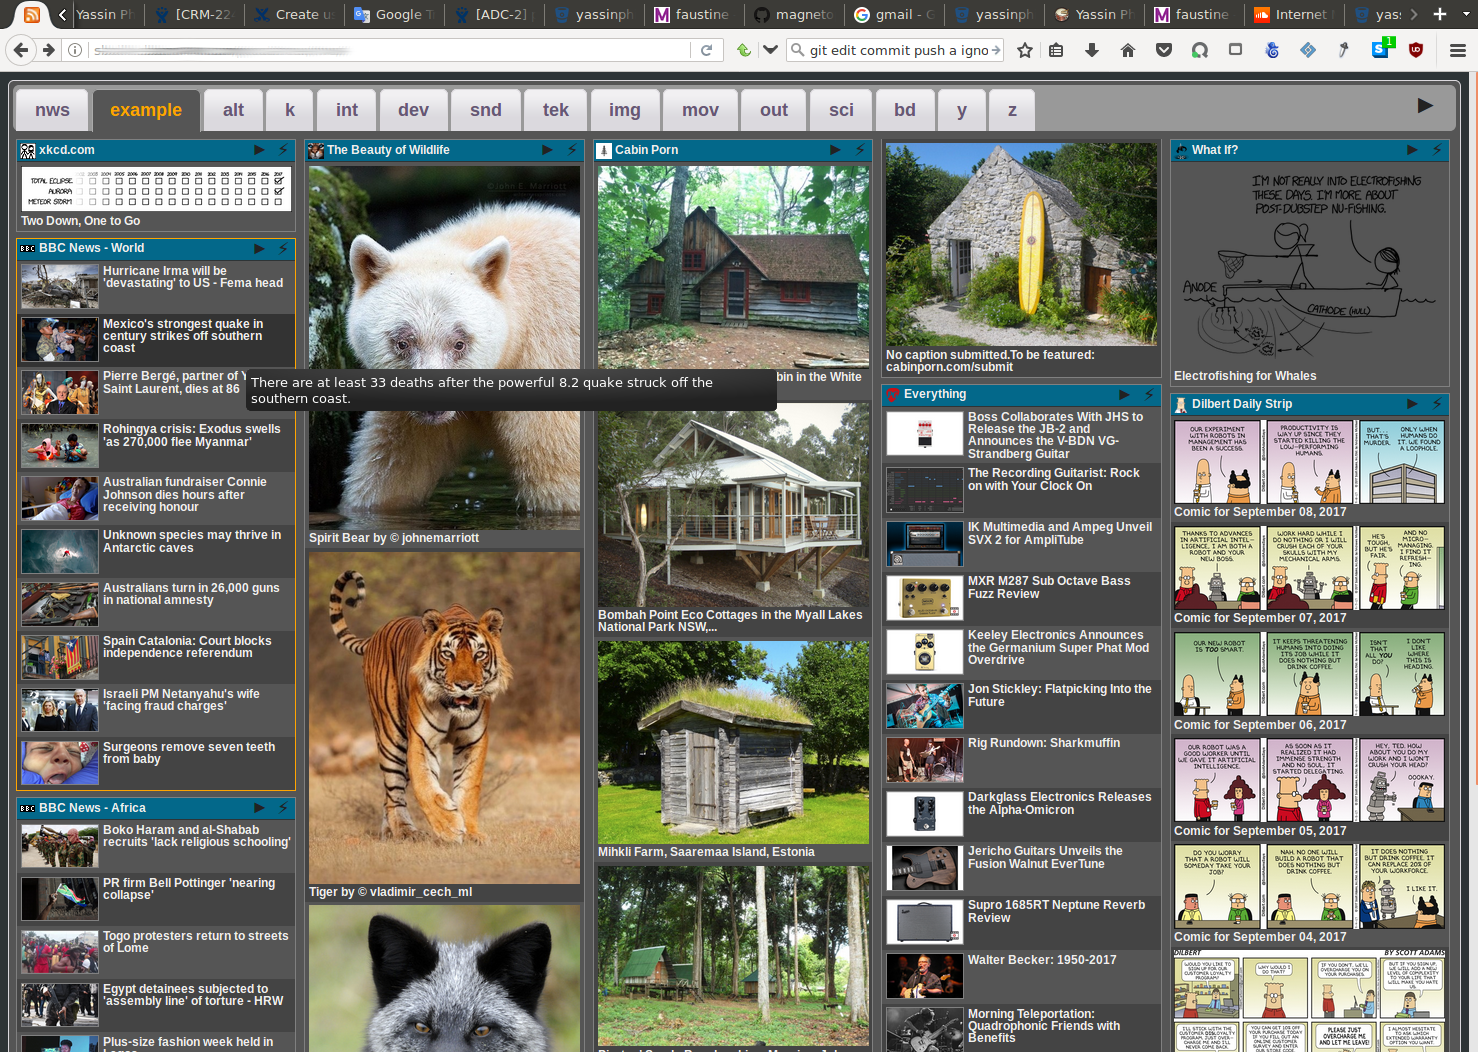
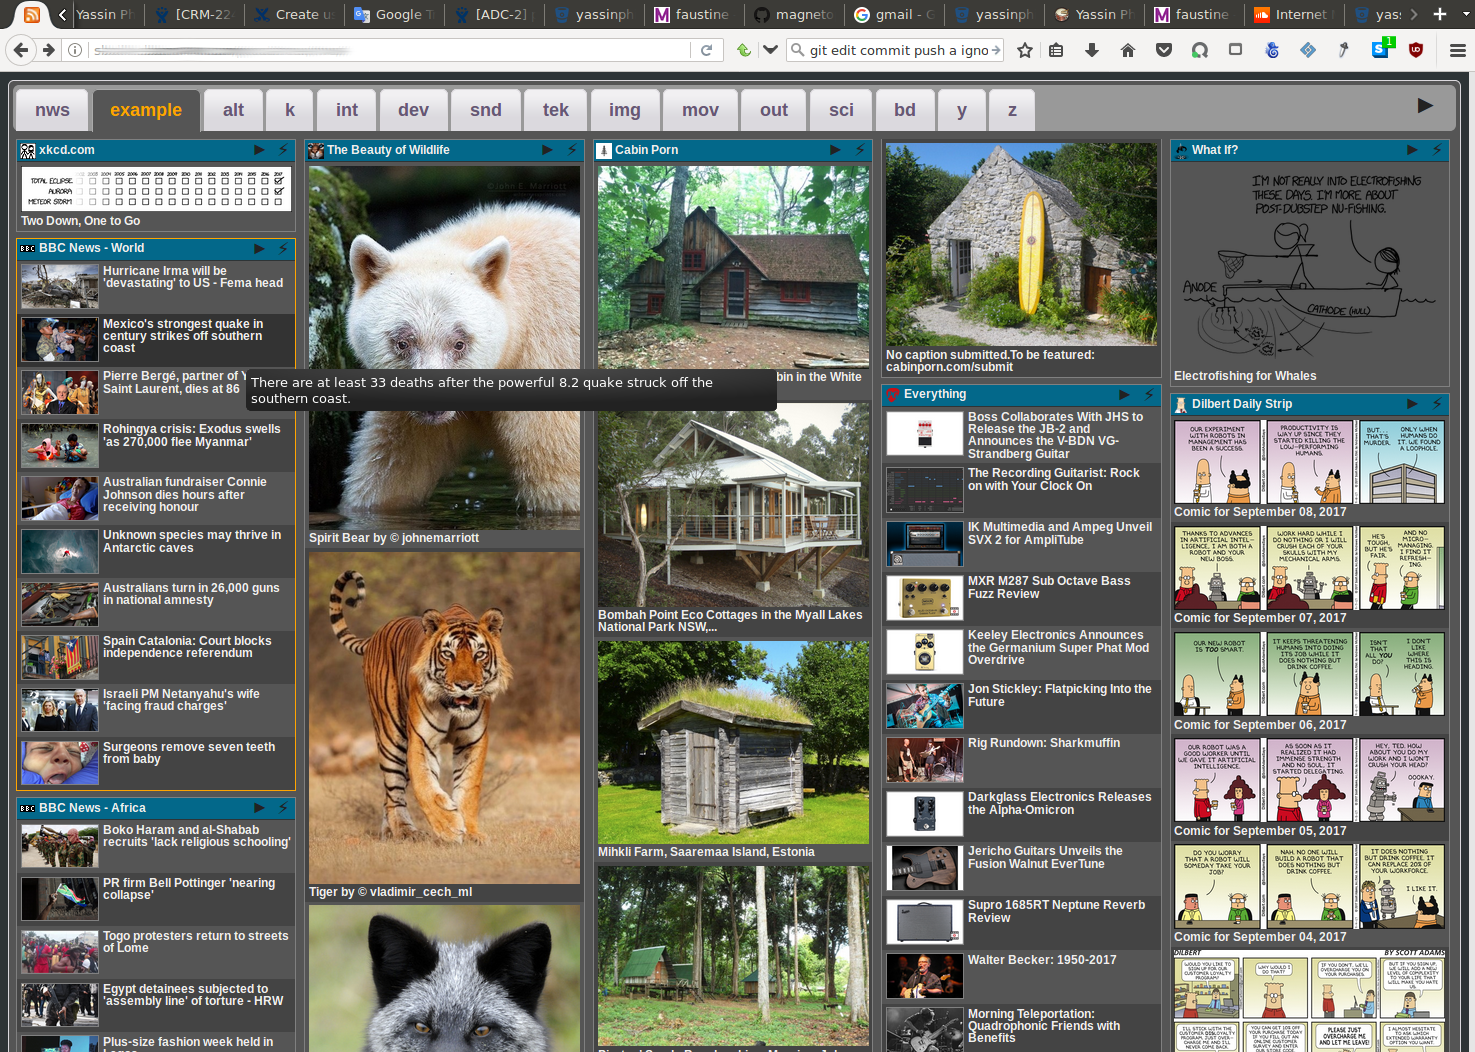
Documentation update

diff --git a/README.md b/README.md
@@ -1,8 +1,8 @@
 # NeWS
 
-NeWS est un lecteur de flux RSS/Atom en ligne, ou local. Auto-hébergé, if you will.
+RSS/Atom morning news reader ; Works at night too.
 
-Description [ici](http://linuxfr.org/users/philippemc/journaux/avec-quoi-tu-lis-tes-rss-le-matin).
+Read about it in French [ici](http://linuxfr.org/users/philippemc/journaux/avec-quoi-tu-lis-tes-rss-le-matin).
 
 ## NeWS is a personal track-free online RSS news reader
 
@@ -25,7 +25,7 @@ NeWS is a simple but powerful web app to view and manage various XML (RSS, aTom,
 
 ### Installation
 
--   Copy the files in a directory within a webserver root, or just a directory on your local machine
+-   Copy the files in a directory within a webserver root, or just a directory on your local machine (but remember to install PHP)
 -   Point your browser to that directory. That's it.
 -   Oh, if you want to use the favicon caching feature (those favicons can take a loong time to get) make sure that the web server has the right to write to our directory:
     -   On the average web server (Debian / Apache) it's generally just a matter of, in the `nws` folder: `sudo chown .www-data .`
@@ -46,7 +46,7 @@ NeWS is a simple but powerful web app to view and manage various XML (RSS, aTom,
     -   Use the "change this feed's tab" menu to re-categorize the feed
     -   Use the "promote this feed" (^) link to bump up a feed as 1st of its tab
     -   Use the "delete this feed" (x) link to delete a feed
--   Or directly edit [feeds.xml](http://bitbucket.org/yassinphilip/nws/raw/master/feeds.xml) (way faster).
+-   Or directly edit [feeds.xml](http://bitbucket.org/yassinphilip/nws/raw/master/feeds.xml) (way **faster & safer**).
 
 ### LICENSE
 
